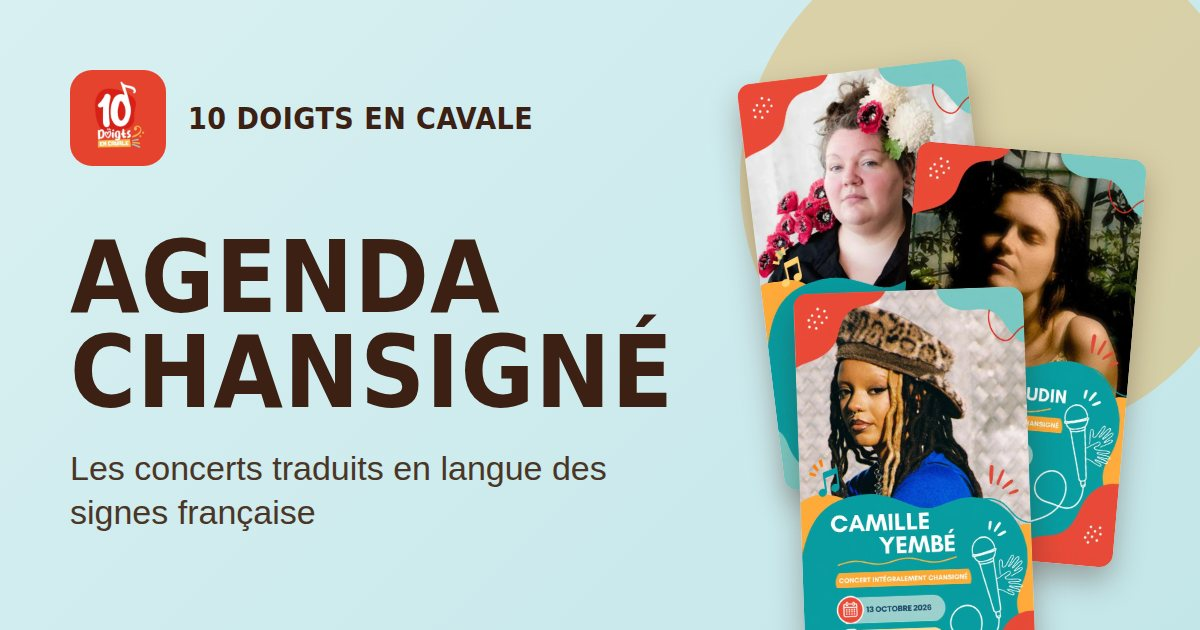
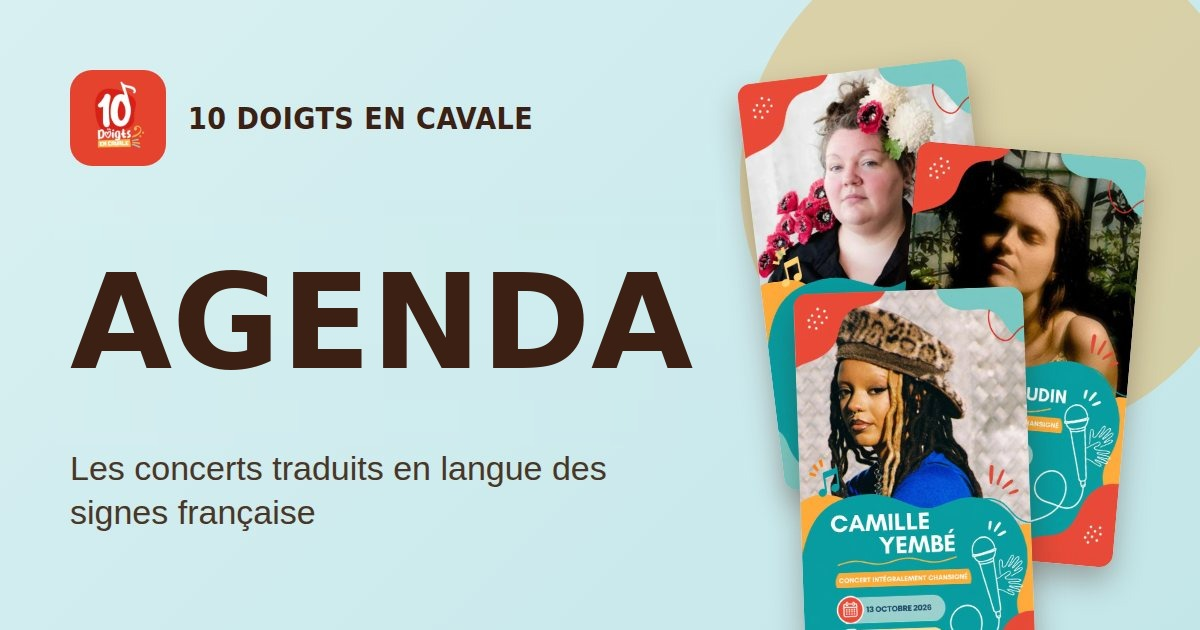
Add files via upload

Changed region(s): [[0.0617, 0.3619, 0.5858, 0.6635]]

diff --git a/index.html b/index.html
@@ -4,12 +4,12 @@
 <meta http-equiv="Content-Security-Policy" content="default-src 'self'; script-src 'self' 'unsafe-inline' https://gc.zgo.at; style-src 'self' 'unsafe-inline'; img-src 'self' data: https://agenda10dec.goatcounter.com; font-src 'self'; connect-src 'self' https://agenda10dec.goatcounter.com https://docs.google.com https://*.googleusercontent.com; manifest-src 'self'; worker-src 'self'; frame-src https://www.facebook.com https://www.instagram.com; object-src 'none'; base-uri 'self'; form-action 'none'; upgrade-insecure-requests">
 <meta name="referrer" content="strict-origin-when-cross-origin">
 <script>if(location.protocol==="http:"&&!/^(localhost|127\.|\[::1\])/.test(location.hostname))location.replace("https:"+location.href.substring(location.protocol.length));</script>
-<title>Agenda Chansigné — concerts chansignés | 10 Doigts en Cavale</title>
+<title>AGENDA — concerts chansignés | 10 Doigts en Cavale</title>
 <script>window.__bip=null;window.addEventListener('beforeinstallprompt',function(e){e.preventDefault();window.__bip=e;});window.addEventListener('appinstalled',function(){window.__bip=null;window.__installed=true;});</script>
 <meta name="viewport" content="width=device-width, initial-scale=1, viewport-fit=cover">
 <meta name="apple-mobile-web-app-capable" content="yes">
 <meta name="apple-mobile-web-app-status-bar-style" content="black-translucent">
-<meta name="apple-mobile-web-app-title" content="Agenda Chansigné">
+<meta name="apple-mobile-web-app-title" content="AGENDA">
 <meta name="mobile-web-app-capable" content="yes">
 <link rel="icon" type="image/png" sizes="32x32" href="icon-32.png">
 <link rel="apple-touch-icon" href="icon-180.png">
@@ -47,16 +47,16 @@ window.addEventListener("popstate", () => {
 <meta name="robots" content="index,follow">
 <meta property="og:type" content="website">
 <meta property="og:locale" content="fr_FR">
-<meta property="og:site_name" content="Agenda Chansigné">
-<meta property="og:title" content="Agenda Chansigné — les concerts chansignés à venir">
+<meta property="og:site_name" content="AGENDA">
+<meta property="og:title" content="AGENDA — les concerts chansignés à venir">
 <meta property="og:description" content="Agenda des concerts chansignés (traduits en langue des signes française) en France et en Suisse : prochaines dates, affiches et réservations. Par 10 Doigts en Cavale.">
 <meta property="og:url" content="https://10doigtsencavale-jpg.github.io/AGENDA/">
 <meta property="og:image" content="https://10doigtsencavale-jpg.github.io/AGENDA/og-image.jpg">
 <meta property="og:image:width" content="1200">
 <meta property="og:image:height" content="630">
-<meta property="og:image:alt" content="Agenda Chansigné : les concerts traduits en langue des signes française, par 10 Doigts en Cavale">
+<meta property="og:image:alt" content="AGENDA : les concerts traduits en langue des signes française, par 10 Doigts en Cavale">
 <meta name="twitter:card" content="summary_large_image">
-<meta name="twitter:title" content="Agenda Chansigné — les concerts chansignés à venir">
+<meta name="twitter:title" content="AGENDA — les concerts chansignés à venir">
 <meta name="twitter:description" content="Agenda des concerts chansignés (traduits en langue des signes française) en France et en Suisse : prochaines dates, affiches et réservations. Par 10 Doigts en Cavale.">
 <meta name="twitter:image" content="https://10doigtsencavale-jpg.github.io/AGENDA/og-image.jpg">
 <meta name="color-scheme" content="light dark">
@@ -912,7 +912,7 @@ window.addEventListener("popstate", () => {
 </style>
 </head>
 <body>
-<noscript><p style="margin:0;padding:14px 16px;background:#fff;color:#3b2013;font:16px/1.5 system-ui,sans-serif">L'Agenda Chansigné a besoin de JavaScript pour afficher les concerts. Vous pouvez aussi retrouver les dates sur <a href="https://www.10doigtsencavale.com" style="color:#b3321f">10doigtsencavale.com</a>.</p></noscript>
+<noscript><p style="margin:0;padding:14px 16px;background:#fff;color:#3b2013;font:16px/1.5 system-ui,sans-serif">L'AGENDA a besoin de JavaScript pour afficher les concerts. Vous pouvez aussi retrouver les dates sur <a href="https://www.10doigtsencavale.com" style="color:#b3321f">10doigtsencavale.com</a>.</p></noscript>
 
 
 <div class="topbar">

diff --git a/cgu.html b/cgu.html
@@ -4,9 +4,9 @@
 <meta http-equiv="Content-Security-Policy" content="default-src 'self'; script-src 'self' 'unsafe-inline'; style-src 'self' 'unsafe-inline'; img-src 'self' data:; font-src 'self'; connect-src 'self'; frame-src 'none'; object-src 'none'; base-uri 'self'; form-action 'none'; upgrade-insecure-requests">
 <meta name="referrer" content="strict-origin-when-cross-origin">
 <script>if(location.protocol==="http:"&&!/^(localhost|127\.|\[::1\])/.test(location.hostname))location.replace("https:"+location.href.substring(location.protocol.length));</script>
-<title>Conditions générales d&#x27;utilisation — Agenda Chansigné</title>
+<title>Conditions générales d&#x27;utilisation — AGENDA</title>
 <meta name="viewport" content="width=device-width, initial-scale=1, viewport-fit=cover">
-<meta name="description" content="Conditions d&#x27;utilisation de l&#x27;application Agenda Chansigné de l&#x27;association 10 Doigts en Cavale.">
+<meta name="description" content="Conditions d&#x27;utilisation de l&#x27;application AGENDA de l&#x27;association 10 Doigts en Cavale.">
 
 <meta name="theme-color" content="#d33d27">
 <link rel="icon" type="image/png" sizes="32x32" href="icon-32.png">
@@ -35,13 +35,13 @@ dl{margin:8px 0}dt{font-weight:700;margin-top:10px}dd{margin:2px 0 0}
 @media (max-width:360px){h1{font-size:30px}}
 </style>
 </head><body><div class="wrap">
-<div class="top"><img src="icon-192.png" alt="" width="44" height="44"><strong>Agenda Chansigné</strong><a class="back" href="./">← Retour à l'agenda</a></div>
+<div class="top"><img src="icon-192.png" alt="" width="44" height="44"><strong>AGENDA</strong><a class="back" href="./">← Retour à l'agenda</a></div>
 
 <h1>Conditions générales d'utilisation</h1>
 <p class="meta">Mise à jour : 8 octobre 2026</p>
 <div class="card">
 <h2>1. Objet</h2>
-<p>L'application « Agenda Chansigné » est éditée par l'association 10 Doigts en Cavale (voir les <a href="mentions-legales.html">mentions légales</a>). Elle présente, à titre d'information, les prochains concerts traduits en langue des signes française (« chansignés ») par l'association, en France et en Suisse. Son utilisation implique l'acceptation des présentes conditions.</p>
+<p>L'application « AGENDA » est éditée par l'association 10 Doigts en Cavale (voir les <a href="mentions-legales.html">mentions légales</a>). Elle présente, à titre d'information, les prochains concerts traduits en langue des signes française (« chansignés ») par l'association, en France et en Suisse. Son utilisation implique l'acceptation des présentes conditions.</p>
 <h2>2. Accès et gratuité</h2>
 <p>L'application est gratuite et accessible sans inscription depuis un navigateur ou, après installation, depuis l'écran d'accueil de votre appareil. Vous restez responsable de votre connexion et de votre matériel. L'association peut modifier, suspendre ou interrompre l'application à tout moment, sans préavis ni indemnité.</p>
 <h2>3. Informations sur les concerts</h2>

diff --git a/confidentialite.html b/confidentialite.html
@@ -4,9 +4,9 @@
 <meta http-equiv="Content-Security-Policy" content="default-src 'self'; script-src 'self' 'unsafe-inline'; style-src 'self' 'unsafe-inline'; img-src 'self' data:; font-src 'self'; connect-src 'self'; frame-src 'none'; object-src 'none'; base-uri 'self'; form-action 'none'; upgrade-insecure-requests">
 <meta name="referrer" content="strict-origin-when-cross-origin">
 <script>if(location.protocol==="http:"&&!/^(localhost|127\.|\[::1\])/.test(location.hostname))location.replace("https:"+location.href.substring(location.protocol.length));</script>
-<title>Politique de confidentialité — Agenda Chansigné</title>
+<title>Politique de confidentialité — AGENDA</title>
 <meta name="viewport" content="width=device-width, initial-scale=1, viewport-fit=cover">
-<meta name="description" content="Comment l&#x27;application Agenda Chansigné traite (ou ne traite pas) vos données personnelles : aucun cookie déposé par l&#x27;application, aucun compte, aucun pistage publicitaire.">
+<meta name="description" content="Comment l&#x27;application AGENDA traite (ou ne traite pas) vos données personnelles : aucun cookie déposé par l&#x27;application, aucun compte, aucun pistage publicitaire.">
 
 <meta name="theme-color" content="#d33d27">
 <link rel="icon" type="image/png" sizes="32x32" href="icon-32.png">
@@ -35,7 +35,7 @@ dl{margin:8px 0}dt{font-weight:700;margin-top:10px}dd{margin:2px 0 0}
 @media (max-width:360px){h1{font-size:30px}}
 </style>
 </head><body><div class="wrap">
-<div class="top"><img src="icon-192.png" alt="" width="44" height="44"><strong>Agenda Chansigné</strong><a class="back" href="./">← Retour à l'agenda</a></div>
+<div class="top"><img src="icon-192.png" alt="" width="44" height="44"><strong>AGENDA</strong><a class="back" href="./">← Retour à l'agenda</a></div>
 
 <h1>Politique de confidentialité</h1>
 <p class="meta">Mise à jour : 8 octobre 2026</p>

diff --git a/404.html b/404.html
@@ -4,9 +4,9 @@
 <meta http-equiv="Content-Security-Policy" content="default-src 'self'; script-src 'self' 'unsafe-inline'; style-src 'self' 'unsafe-inline'; img-src 'self' data:; font-src 'self'; connect-src 'self'; frame-src 'none'; object-src 'none'; base-uri 'self'; form-action 'none'; upgrade-insecure-requests">
 <meta name="referrer" content="strict-origin-when-cross-origin">
 <script>if(location.protocol==="http:"&&!/^(localhost|127\.|\[::1\])/.test(location.hostname))location.replace("https:"+location.href.substring(location.protocol.length));</script>
-<title>Page introuvable — Agenda Chansigné</title>
+<title>Page introuvable — AGENDA</title>
 <meta name="viewport" content="width=device-width, initial-scale=1, viewport-fit=cover">
-<meta name="description" content="Cette page n&#x27;existe pas. Retrouvez les prochains concerts chansignés dans l&#x27;Agenda Chansigné.">
+<meta name="description" content="Cette page n&#x27;existe pas. Retrouvez les prochains concerts chansignés dans l&#x27;AGENDA.">
 <meta name="robots" content="noindex,follow">
 <meta name="theme-color" content="#d33d27">
 <link rel="icon" type="image/png" sizes="32x32" href="/AGENDA/icon-32.png">
@@ -35,7 +35,7 @@ dl{margin:8px 0}dt{font-weight:700;margin-top:10px}dd{margin:2px 0 0}
 @media (max-width:360px){h1{font-size:30px}}
 </style>
 </head><body><div class="wrap">
-<div class="top"><img src="/AGENDA/icon-192.png" alt="" width="44" height="44"><strong>Agenda Chansigné</strong><a class="back" href="/AGENDA/">← Retour à l'agenda</a></div>
+<div class="top"><img src="/AGENDA/icon-192.png" alt="" width="44" height="44"><strong>AGENDA</strong><a class="back" href="/AGENDA/">← Retour à l'agenda</a></div>
 
 <h1>Page introuvable</h1>
 <div class="card">

diff --git a/mentions-legales.html b/mentions-legales.html
@@ -4,9 +4,9 @@
 <meta http-equiv="Content-Security-Policy" content="default-src 'self'; script-src 'self' 'unsafe-inline'; style-src 'self' 'unsafe-inline'; img-src 'self' data:; font-src 'self'; connect-src 'self'; frame-src 'none'; object-src 'none'; base-uri 'self'; form-action 'none'; upgrade-insecure-requests">
 <meta name="referrer" content="strict-origin-when-cross-origin">
 <script>if(location.protocol==="http:"&&!/^(localhost|127\.|\[::1\])/.test(location.hostname))location.replace("https:"+location.href.substring(location.protocol.length));</script>
-<title>Mentions légales — Agenda Chansigné</title>
+<title>Mentions légales — AGENDA</title>
 <meta name="viewport" content="width=device-width, initial-scale=1, viewport-fit=cover">
-<meta name="description" content="Mentions légales de l&#x27;application Agenda Chansigné, éditée par l&#x27;association 10 Doigts en Cavale.">
+<meta name="description" content="Mentions légales de l&#x27;application AGENDA, éditée par l&#x27;association 10 Doigts en Cavale.">
 
 <meta name="theme-color" content="#d33d27">
 <link rel="icon" type="image/png" sizes="32x32" href="icon-32.png">
@@ -35,7 +35,7 @@ dl{margin:8px 0}dt{font-weight:700;margin-top:10px}dd{margin:2px 0 0}
 @media (max-width:360px){h1{font-size:30px}}
 </style>
 </head><body><div class="wrap">
-<div class="top"><img src="icon-192.png" alt="" width="44" height="44"><strong>Agenda Chansigné</strong><a class="back" href="./">← Retour à l'agenda</a></div>
+<div class="top"><img src="icon-192.png" alt="" width="44" height="44"><strong>AGENDA</strong><a class="back" href="./">← Retour à l'agenda</a></div>
 
 <h1>Mentions légales</h1>
 <p class="meta">Mise à jour : 8 octobre 2026</p>
